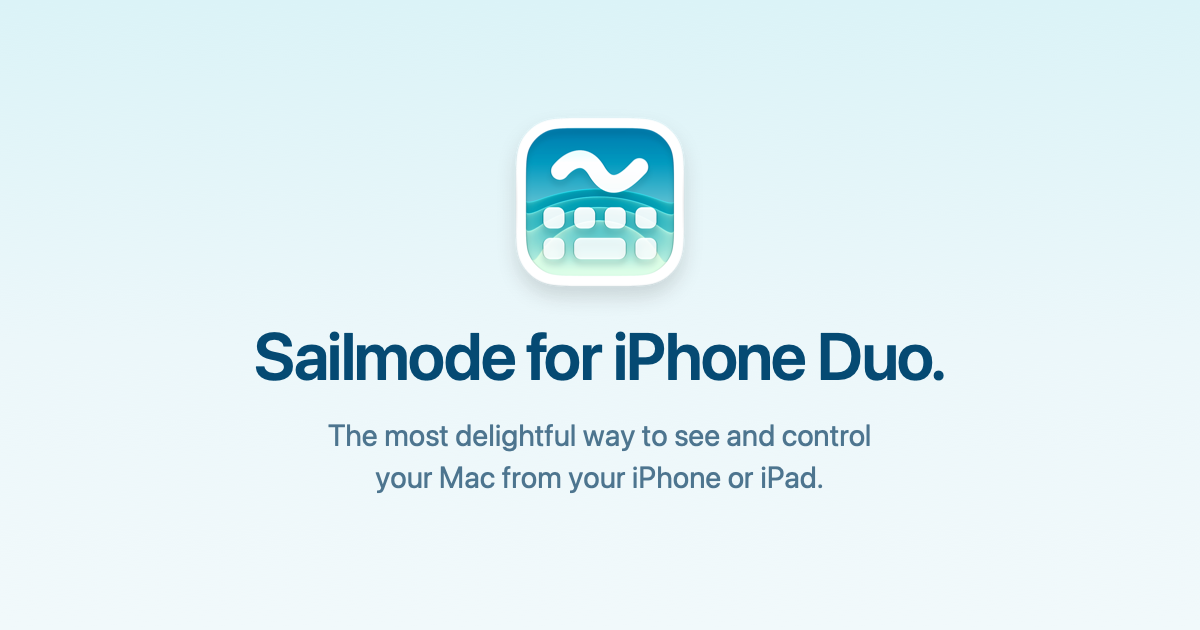
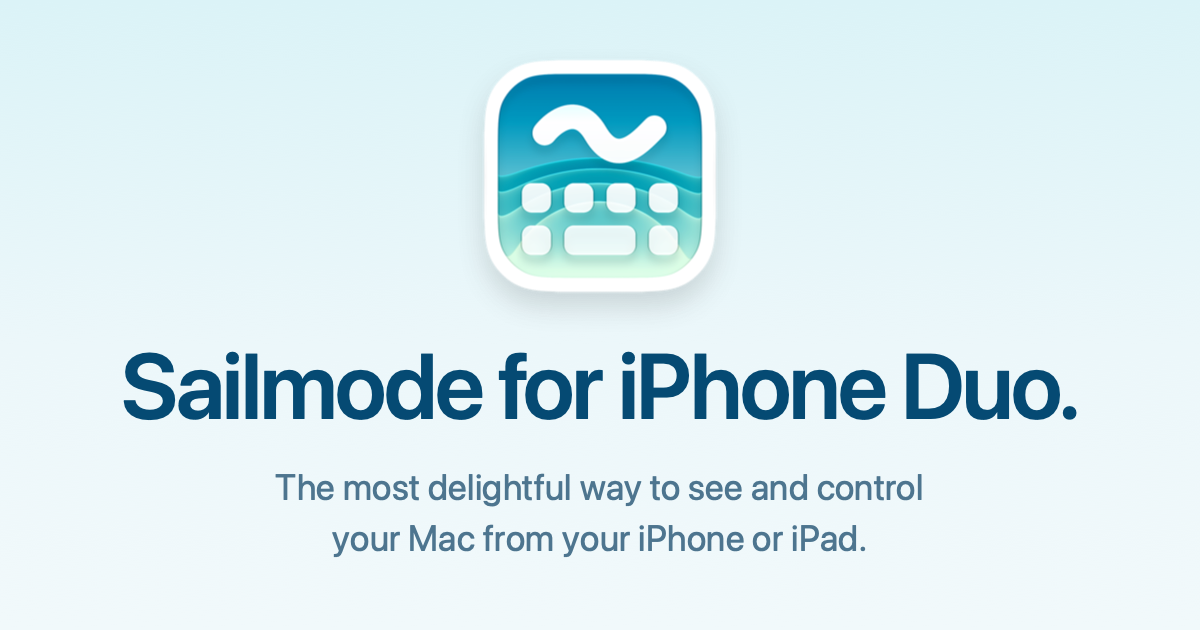
Update the site

Changed region(s): [[0.0925, 0.5127, 0.8942, 0.8746], [0.4008, 0.0905, 0.6167, 0.4825]]

diff --git a/index.html b/index.html
@@ -11,11 +11,13 @@
 <meta property="og:url" content="https://sailmode.app/">
 <meta property="og:site_name" content="Sailmode">
 <!-- The link preview card, drawn by Tools/Website/social-image.swift. -->
-<meta property="og:image" content="https://sailmode.app/social.png?v=3580fc2a19">
+<meta property="og:image" content="https://sailmode.app/social.png?v=b808b1751f">
 <meta property="og:image:width" content="1200">
 <meta property="og:image:height" content="630">
 <meta property="og:image:alt" content="Sailmode for iPhone Duo. The most delightful way to see and control your Mac from your iPhone or iPad.">
 <meta name="twitter:card" content="summary_large_image">
+<!-- X lays the title over the card's bottom-left corner: kept short so it stays clear of the subline. -->
+<meta name="twitter:title" content="Sailmode">
 <link rel="icon" type="image/png" href="favicon.png?v=6fe44937cc">
 <link rel="preconnect" href="https://stream.mux.com">
 <link rel="stylesheet" href="style.css?v=b24c8f9b7b">
